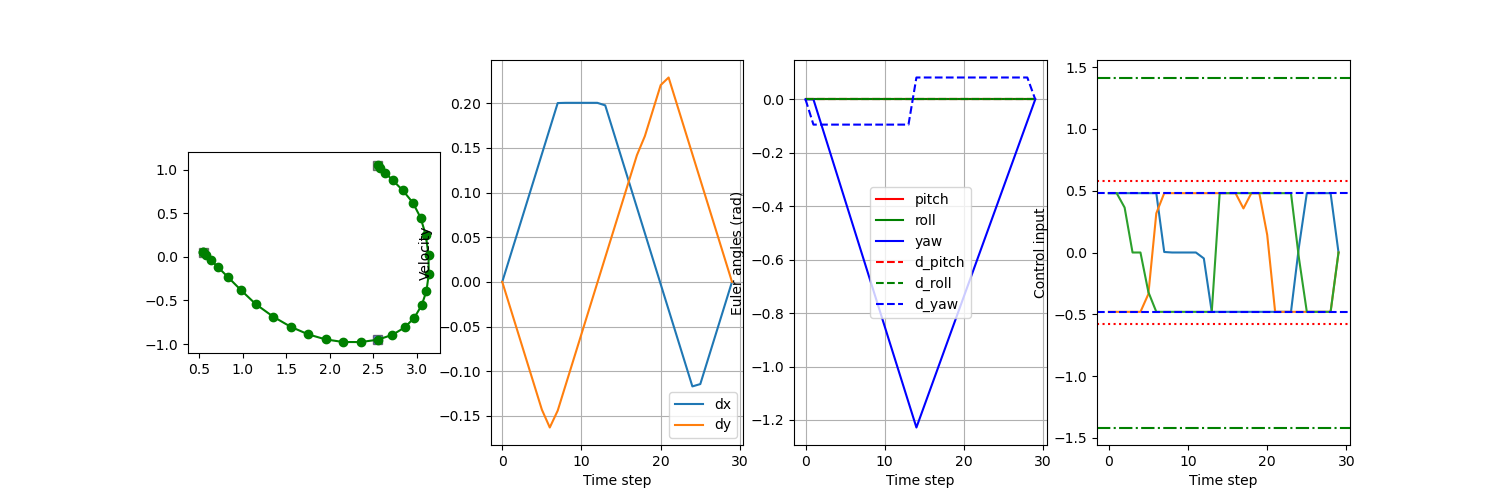
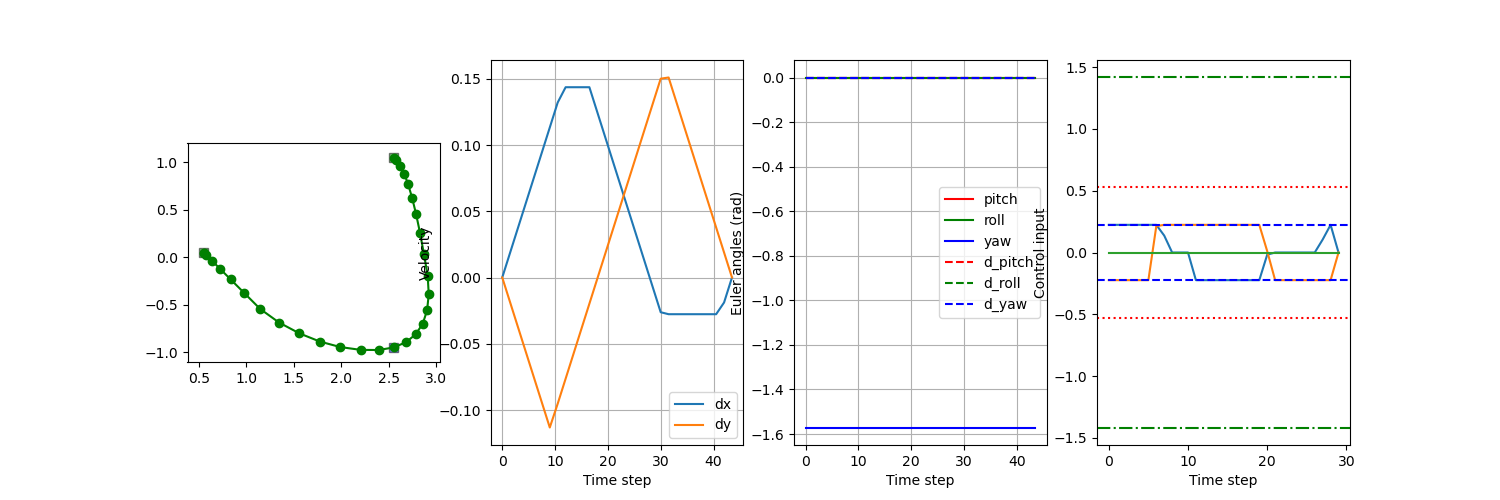
rotation stuff for MPC and first hardware test, frame issues in estimator

diff --git a/stl_mapping/Control/mpc_node.py b/stl_mapping/Control/mpc_node.py
@@ -17,6 +17,7 @@ from px4_msgs.msg import VehicleStatus, VehicleAttitude, VehicleAngularVelocity,
 from px4_msgs.msg import VehicleThrustSetpoint, VehicleTorqueSetpoint, OffboardControlMode
 
 from Control.controllers.mpc_wrench import MpcWrench
+from Utilities.rotations import quat_to_euler_np
 
 class MPCNode(Node):
     def __init__(self):
@@ -93,10 +94,10 @@ class MPCNode(Node):
         self.get_logger().info("MPC publishers initialized successfully")
 
         # Create the MPC solver and create timer callback to solve
-        timer_period = 0.05 # seconds
+        timer_period = 0.5 # seconds
         self.timer = self.create_timer(timer_period, self.cmdloop_callback)
 
-        timer_period_offboard = 0.3 # seconds
+        timer_period_offboard = 0.1 # seconds
         self.timer_offboard = self.create_timer(timer_period_offboard, self.publish_offboard_mode)
 
         # Load the plan from a file (declared as launch argument)
@@ -104,6 +105,7 @@ class MPCNode(Node):
 
         this_file_dir = os.path.dirname(os.path.abspath(__file__))
         path = os.path.abspath(os.path.join(this_file_dir, '../../../../share/stl_mapping/'))
+        # path = '/home/none/space_ws/src/stl_mapping/stl_mapping/Planning/solutions/'
         self.plan_path = os.path.join(path, self.plan_path)
         self.get_logger().info(f"Loaded plan from {self.plan_path}")
 
@@ -115,6 +117,7 @@ class MPCNode(Node):
             q=plan_solution['q'],
             dt=plan_solution['dt']
         )
+        self.get_logger().info(f"q: {self.reference.q}")
 
         # Initialize variables
         self.nav_state = VehicleStatus.NAVIGATION_STATE_MAX
@@ -276,7 +279,7 @@ class MPCNode(Node):
         
         x_ref = np.zeros((13, self.mpc.Nx + 1))  # Initialize reference trajectory
         for idx, ti in enumerate(times):
-            x_ref[:, idx] = get_reference_trajectory(ti, self.reference)
+            x_ref[:, idx] = get_reference_trajectory(ti, self.reference, order='xyz')
                 
         # x_ref contains reference in order p q dp dq, convert to order p, dp, q, dq
         x_ref = np.concatenate((
@@ -285,12 +288,18 @@ class MPCNode(Node):
             x_ref[3:7, :],  # Quaternion
             x_ref[10:13, :]  # Angular velocity
         ))
-        # self.get_logger().info(f"x_ref: {x_ref[:, 0].flatten()}")
+        self.get_logger().info(f"euler: {quat_to_euler_np(x_ref[6:10, 0], order='xyz')}")
+        self.get_logger().info(f"x_ref: {x_ref[:, 0].flatten()}")
         # self.get_logger().info(f"x0: {x0.flatten()}")
 
         # Get control input
         self.control, x_pred = self.mpc.get_input(x0, x_ref)
         # print(f"Control: {self.control.flatten()}")
+
+        quat_error = (x_pred[0, 6:10] @ x_ref[6:10, 0])**2
+        self.get_logger().warning(f"quat_error: {1-quat_error}")
+        pos_error = np.linalg.norm(x_pred[0, 0:2] - x_ref[0:2, 0])
+        self.get_logger().warning(f"pos_error: {pos_error}")
 
         # Publish the reference and predicted path for rviz
         setpoint_path_msg = Path()

diff --git a/stl_mapping/Planning/main.py b/stl_mapping/Planning/main.py
@@ -21,7 +21,7 @@ from Utilities.stl import Pred, Spec, quant_parse_operator, OptProbItems
 
 # hyperparameters
 N = 30     # number of time steps
-dt = 1.0    # time step size
+dt = 1.5    # time step size
 t0 = 0      # initial time
 tf = (N-1)*dt   # final time
 
@@ -49,17 +49,18 @@ sp_robot = LinearFreeFlyer6DoF()
 # ])
 # spec = Spec(phi, t0, tf)
 
-euler_order = 'zyx'
+euler_order = 'xyz'
 
 X0 = HyperRectangle(np.array([0.5, 0, 0]), np.array([0.6, 0.1, 0.1]))
 Xf = HyperRectangle(np.array([2.5, 1.0, 0]), np.array([2.6, 1.1, 0.1]))
-XA = HyperRectangle(np.array([2.5, -1.0, 0,  -np.pi/2-np.pi/8]), np.array([2.6, -0.9, 0.1,  -np.pi/2+np.pi/8]))
+# XA = HyperRectangle(np.array([2.5, -1.0, 0,  -np.pi/2-np.pi/8]), np.array([2.6, -0.9, 0.1,  -np.pi/2+np.pi/8]))
+XA = HyperRectangle(np.array([2.5, -1.0, 0]), np.array([2.6, -0.9, 0.1]))
 Obs = []
 World = HyperRectangle(np.array([0, -1.5, -10, -10]), np.array([4, 1.5, 10, 10]))
 phi = Pred("AND", preds=[
     Pred("G", [t0,t0], preds=[Pred("MU", preds=[Polytope(X0)], dims=[0,1,2])]),
     Pred("G", [tf,tf], preds=[Pred("MU", preds=[Polytope(Xf)], dims=[0,1,2])]),
-    Pred("F", [t0,tf], preds=[Pred("MU", preds=[Polytope(XA)], dims=[0,1,2, 5])]), # 3: pitch, 4: roll, 5: yaw
+    Pred("F", [t0,tf], preds=[Pred("MU", preds=[Polytope(XA)], dims=[0,1,2])]), # 3: pitch, 4: roll, 5: yaw
     Pred("G", [t0,tf], preds=[Pred("MU", preds=[Polytope(World)], dims=[0,1,6,7])]),
 ])
 spec = Spec(phi, t0, tf)
@@ -85,8 +86,8 @@ if True:
     sp_robot.add_state_constraints(opt, items)
 
     # initial orientation and velocity constraints
-    opt.addConstr(x_vars[0, 3::] == np.zeros(sp_robot.n_x - 3))
-    opt.addConstr(x_vars[-1, 3::] == np.zeros(sp_robot.n_x - 3))
+    opt.addConstr(x_vars[0, 3::] == np.array([0, 0, -np.pi/2, 0, 0, 0, 0, 0, 0]))#np.zeros(sp_robot.n_x - 3))
+    opt.addConstr(x_vars[-1, 3::] == np.array([0, 0, -np.pi/2, 0, 0, 0, 0, 0, 0]))#np.zeros(sp_robot.n_x - 3))
 
     X = [var for var in opt.getVars() if "X" in var.VarName]
     quant_parse_operator(opt, spec.phi, items)

diff --git a/stl_mapping/Control/controllers/mpc_wrench.py b/stl_mapping/Control/controllers/mpc_wrench.py
@@ -50,9 +50,9 @@ class MpcWrench():
         self.Q = np.diag([          # State weighting matrix
             1e0, 1e0, 1e0,
             2e0, 2e0, 1e0, 
-            1e3, 
+            1e2, 
             5e0, 5e0, 5e0])             
-        self.R = np.diag([          # State weighting matrix
+        self.R = 0.1*np.diag([          # State weighting matrix
             1e0, 1e0, 1e0,
             1e0, 1e0, 1e0]) 
         self.P = 20 * self.Q        # Terminal state weighting matrix
@@ -114,9 +114,9 @@ class MpcWrench():
         ocp.cost.W = block_diag(self.Q, self.R)
         ocp.cost.W_e = block_diag(self.P)
 
-        quat_error = ca.fabs(model.x[6:10].T @ x_ref[6:10])
-        # quat_error = (model.x[6:10].T @ x_ref[6:10])**2
-        quat_error = ca.fmax(0, ca.fmin(1, quat_error))
+        # quat_error = ca.fabs(model.x[6:10].T @ x_ref[6:10])
+        quat_error = (model.x[6:10].T @ x_ref[6:10])**2
+        # quat_error = ca.fmax(0, ca.fmin(1, quat_error))
         ocp.model.cost_y_expr = ca.vertcat(
             model.x[0:3] - x_ref[0:3],   # Position error
             model.x[3:6] - x_ref[3:6],   # Velocity error

diff --git a/stl_mapping/Utilities/rotations.py b/stl_mapping/Utilities/rotations.py
@@ -51,7 +51,7 @@ def euler_to_quat_np(pry, order='zyz'):
     Angles are in radians.
     """
     r = R.from_euler(order, pry, degrees=False)
-    q = r.as_quat(scalar_first=True)  # returns (qx, qy, qz, qw)
+    q = r.as_quat(scalar_first=True)  # returns (qw, qx, qy, qz)
     return q
 
 def quat_to_euler_cs(q):
@@ -107,7 +107,7 @@ def quat_x_to_euler_x_np(x, order='zyz'):
     ))
     return euler_x
 
-def euler_x_to_quat_x_np(x,order='zyz'):
+def euler_x_to_quat_x_np(x,order='zyx'):
     # assumes x = [p, q, dp, dq]
     p, q, dp, dq = x[0:3], x[3:6], x[6:9], x[9:12]
     quat_x = np.concatenate((

diff --git a/stl_mapping/Utilities/get_reference_trajectory.py b/stl_mapping/Utilities/get_reference_trajectory.py
@@ -28,9 +28,10 @@ def get_reference_trajectory(t:float, trajectory:ReferenceTrajectory, order:str=
     slerp = Slerp([0, 1], Rotation.from_quat(trajectory.q[idx], scalar_first=True))
     q_val = slerp(s).as_quat(scalar_first=True)
 
-    ds = 1e-6
+    ds = 1e-4
     dq_val = slerp([s, min(1,s+ds)]).as_euler(order)
-    dq_val = (dq_val[1] - dq_val[0]) / ds
+    dq_val = (dq_val[1] - dq_val[0]) / (ds*trajectory.dt)
+    # dq_val = np.zeros((3,))   # This for slow-moving tests
 
     print(f"q_val: {quat_to_euler_np(q_val, order=order)}")
     # print(f"dq_val: {dq_val}")

diff --git a/stl_mapping/Utilities/Robots.py b/stl_mapping/Utilities/Robots.py
@@ -89,7 +89,7 @@ class LinearFreeFlyer6DoF(Robot):
     def __init__(self):
         super().__init__(n_x=12, n_u=6)
         # dynamics in the form: dx = f(x) + g(x)u
-        self.mass = 16.8
+        self.mass = 17.8
         self.inertia = 0.314
 
         self.A = np.zeros((12, 12))
@@ -115,7 +115,7 @@ class LinearFreeFlyer6DoF(Robot):
 
         # Define the control input bounds
         max_thrust = 2.125
-        max_torque = 0.255
+        max_torque = 0.714
         scale_thrust = 2/3
         scale_torque = 1/3
         u_max = np.concatenate([

diff --git a/stl_mapping/launch/hw.launch.py b/stl_mapping/launch/hw.launch.py
@@ -44,7 +44,7 @@ def generate_launch_description():
             package='rviz2',
             executable='rviz2',
             name='rviz2',
-            arguments=['-d', [os.path.join(get_package_share_directory('impact_stl'), 'config.rviz')]]
+            arguments=['-d', [os.path.join(get_package_share_directory('stl_mapping'), 'config.rviz')]]
     ))
 #     # Plotjuggler from the juggler_2.xml file (2 spacecrafts)
 #     ld.add_action(Node(

diff --git a/stl_mapping/Planning/bezier_fitting.py b/stl_mapping/Planning/bezier_fitting.py
@@ -59,6 +59,7 @@ r_sols, dr_sols, ddr_sols = np.array(r_sols), np.array(dr_sols), np.array(ddr_so
 
 q_sols = [np.array([x_ff[i, 3:7], x_ff[i+1, 3:7]]) for i in range(N-1)]
 q_sols = np.array(q_sols)
+print(f"q_sols: {q_sols}")
 
 np.savez('stl_mapping/Planning/solutions/sp_solution_bezier.npz',
          r=r_sols, dr=dr_sols, ddr=ddr_sols, q=q_sols, dt=dt, alpha=alpha, times=times)
